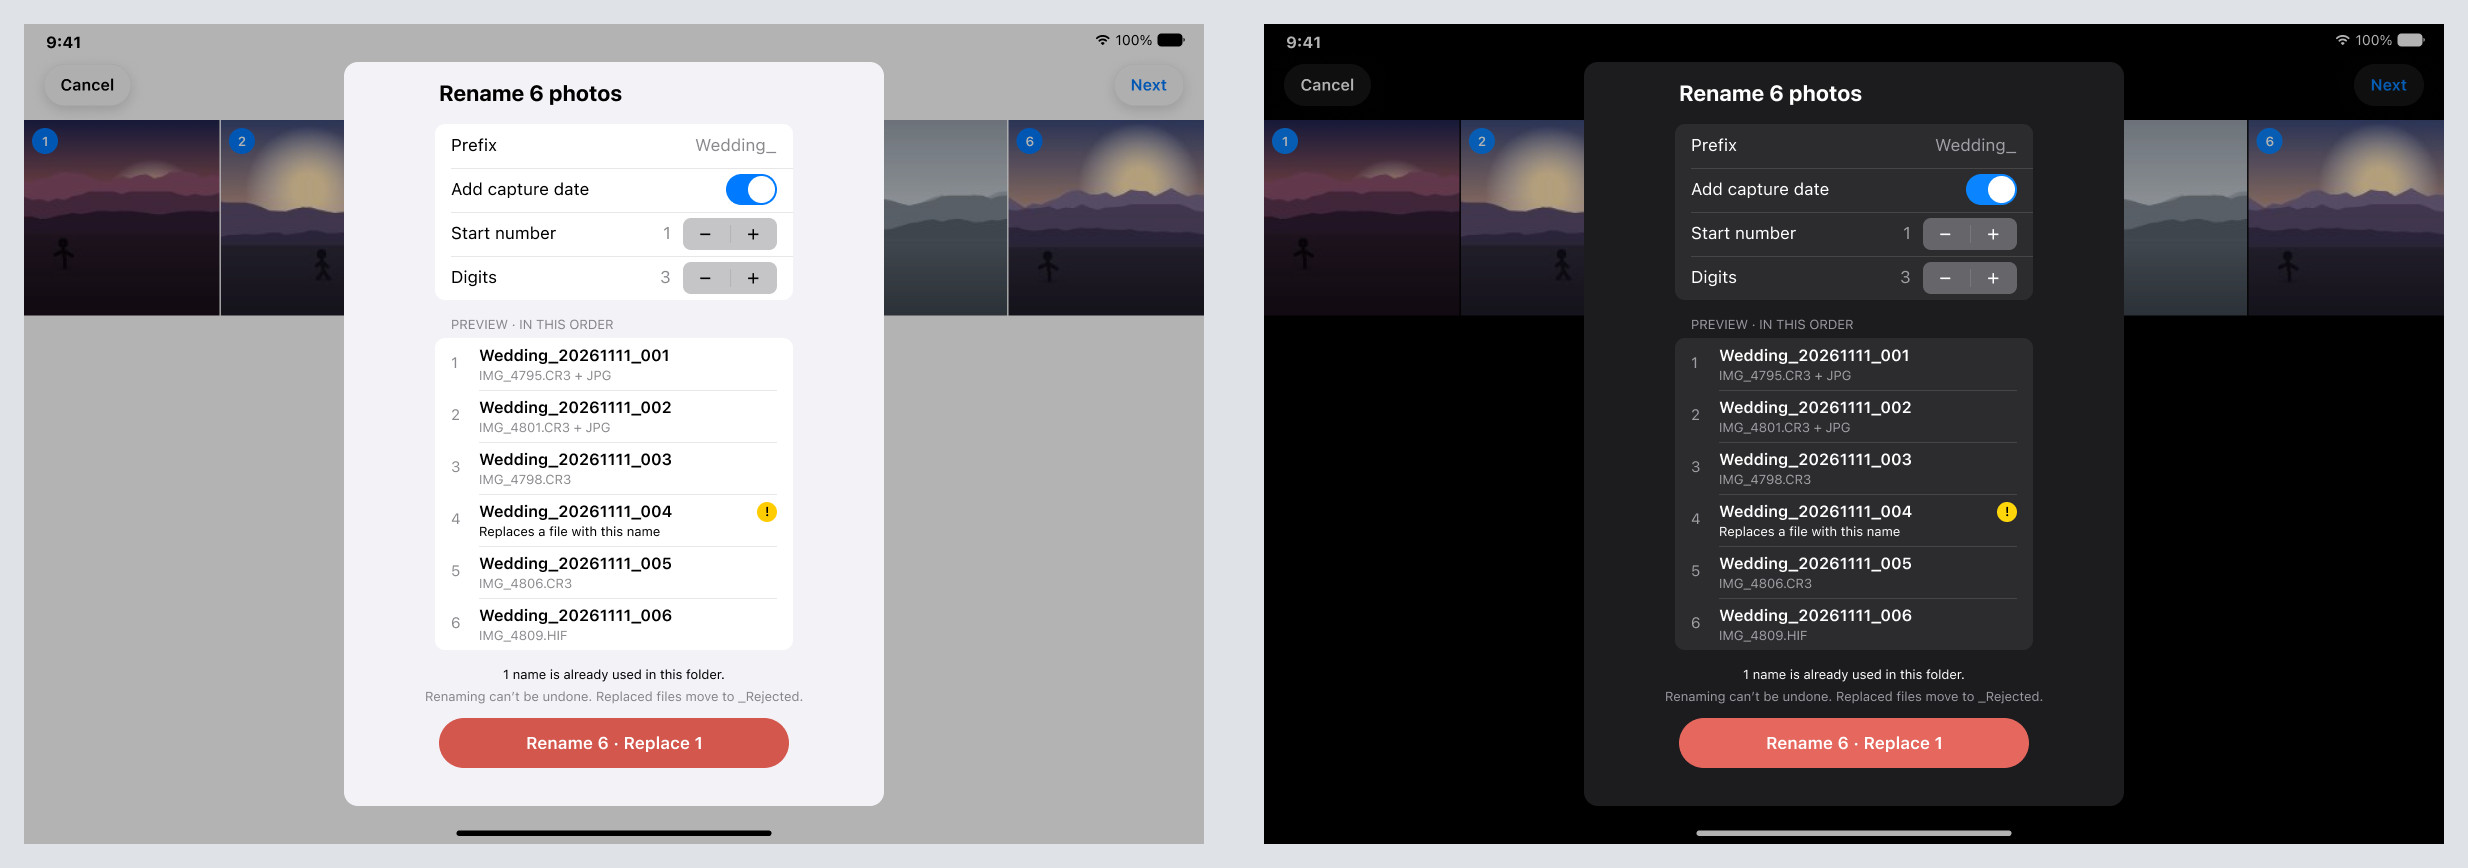
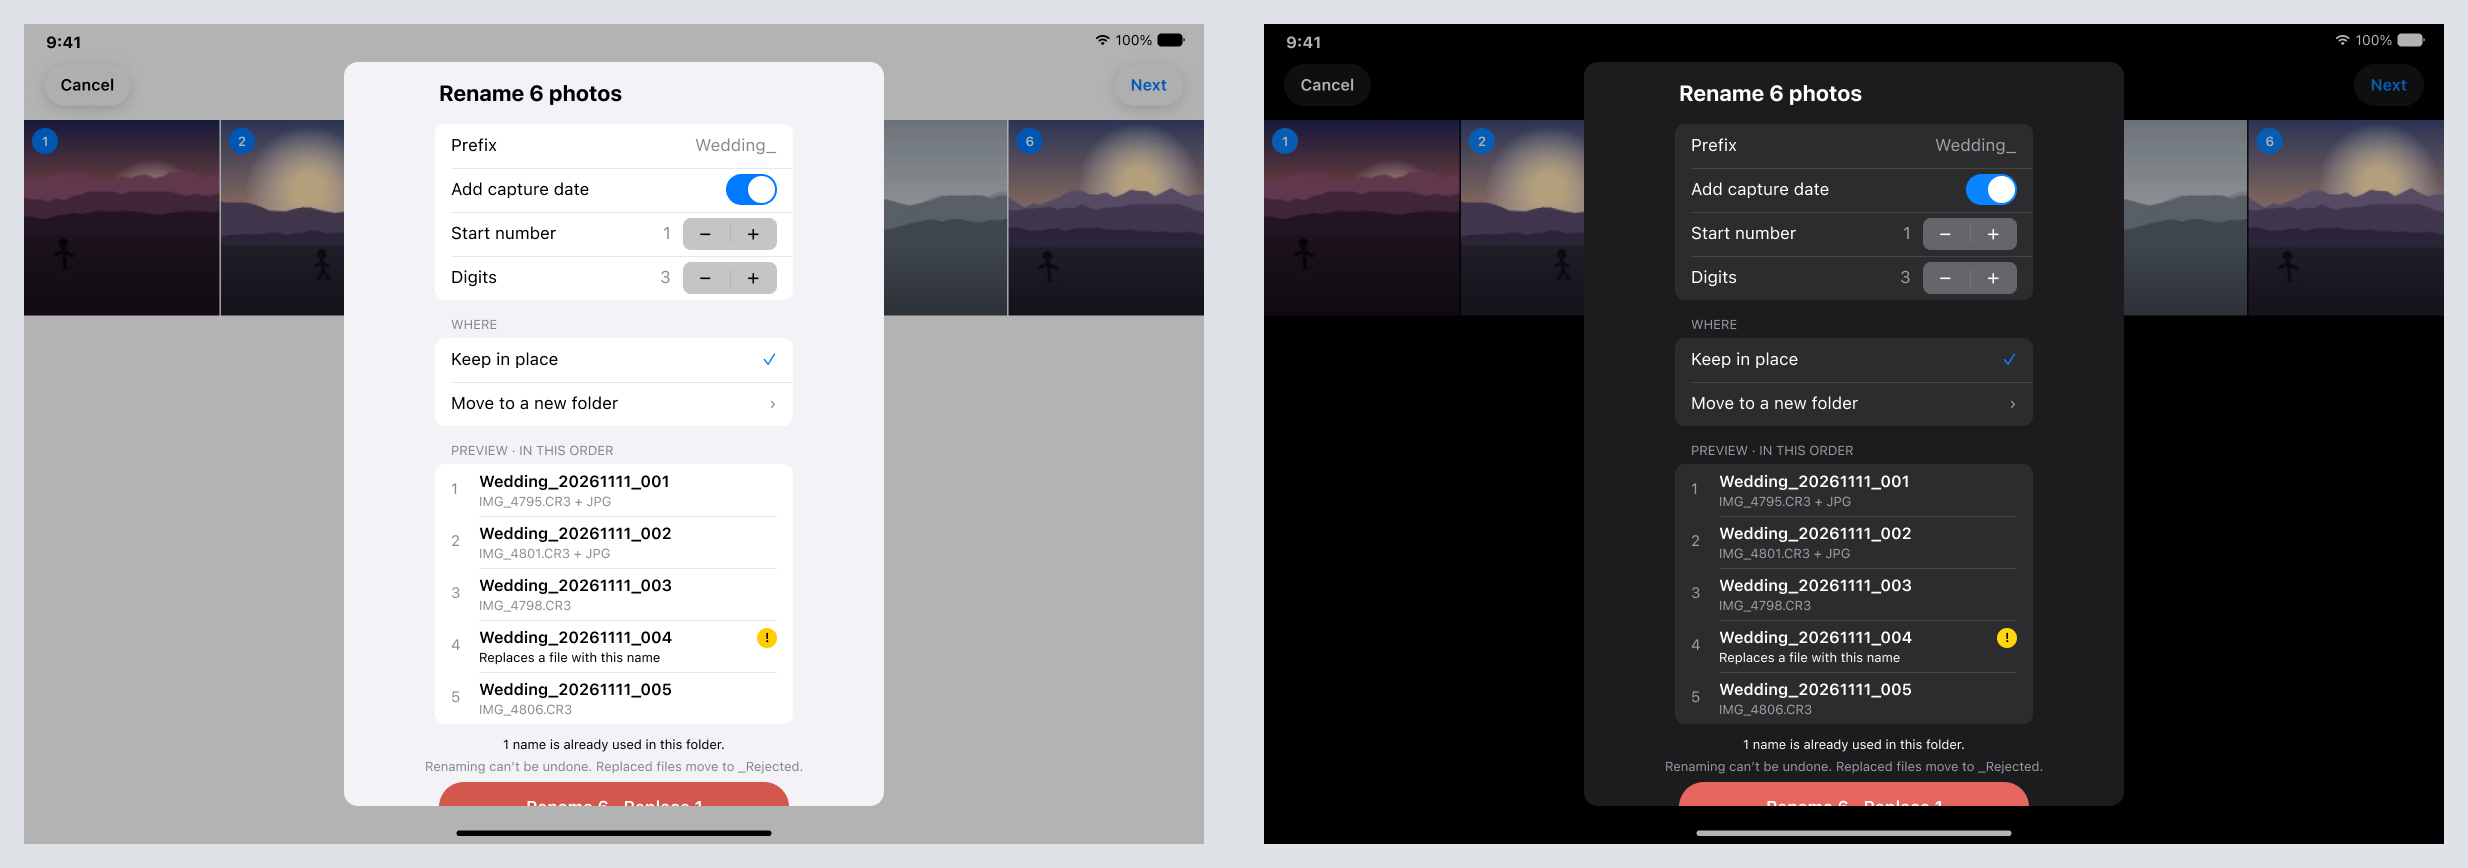
Add the Where choice to the batch rename name sheet frames
Claude-Session: https://claude.ai/code/session_01NdeqBr3nLyagZRGCvsx2vS

Changed region(s): [[0.6552, 0.3733, 0.8424, 0.9332], [0.156, 0.3733, 0.3432, 0.9332], [0.8112, 0.7154, 0.8424, 0.7465]]

diff --git a/design/handoff/screens.md b/design/handoff/screens.md
@@ -242,7 +242,7 @@ A first draft of the flow in #176 for the designer. The engine is #175.
 - **Select**: in select mode a "Rename…" pill sits centred above the batch capsule, in the same place as the group pill in detail. It shows once one photo is selected and the folder can be written to.
 - **Order**: a full-screen grid of only the selected photos, in the grid's current sort. Each tile has its position in an `accent` circle at the top leading corner. Dragging lifts the tile (larger, with a shadow), leaves an empty slot where it will land, and renumbers the other tiles as it moves. The top bar has Cancel, "Order N photos" with "Drag to reorder · tap to check", and Next. The order is never saved; Cancel drops it.
 - **Check focus**: tapping a tile opens the photo full screen with the detail zoom (double-tap or pinch to 100%). The subtitle reads "2 of 6", and swiping moves through this order. There is no capsule, filmstrip, Info or Undo. Back returns to the order grid.
-- **Name sheet**: a large-detent sheet over the order grid. The fields are Prefix, Add capture date, Start number and Digits (steppers). Below them is a live preview: the new name, then the current name with its companions ("IMG_4795.CR3 + JPG").
+- **Name sheet**: a large-detent sheet over the order grid. The fields are Prefix, Add capture date, Start number and Digits (steppers). A **Where** card follows: "Keep in place" (checked, the default) or "Move to a new folder", which opens a folder-name field; when moving, the preview shows the destination folder (not drawn yet). Below that is a live preview, scrolling inside its card: the new name, then the current name with its companions ("IMG_4795.CR3 + JPG").
   - **A name already in this folder** (outside the batch) doesn't block. The row gets a `label/yellow` "!" and "Replaces a file with this name". The line above the button counts the names in use, and the button turns `reject` and reads "Rename 6 · Replace 1". The replaced file set moves to `_Rejected`, so nothing is deleted.
   - Invalid characters, names over 255 bytes and two equal names in the batch still block: those rows use `reject` text and the button is disabled. That state isn't drawn yet.
   - The footer reads "Renaming can't be undone. Replaced files move to _Rejected."
